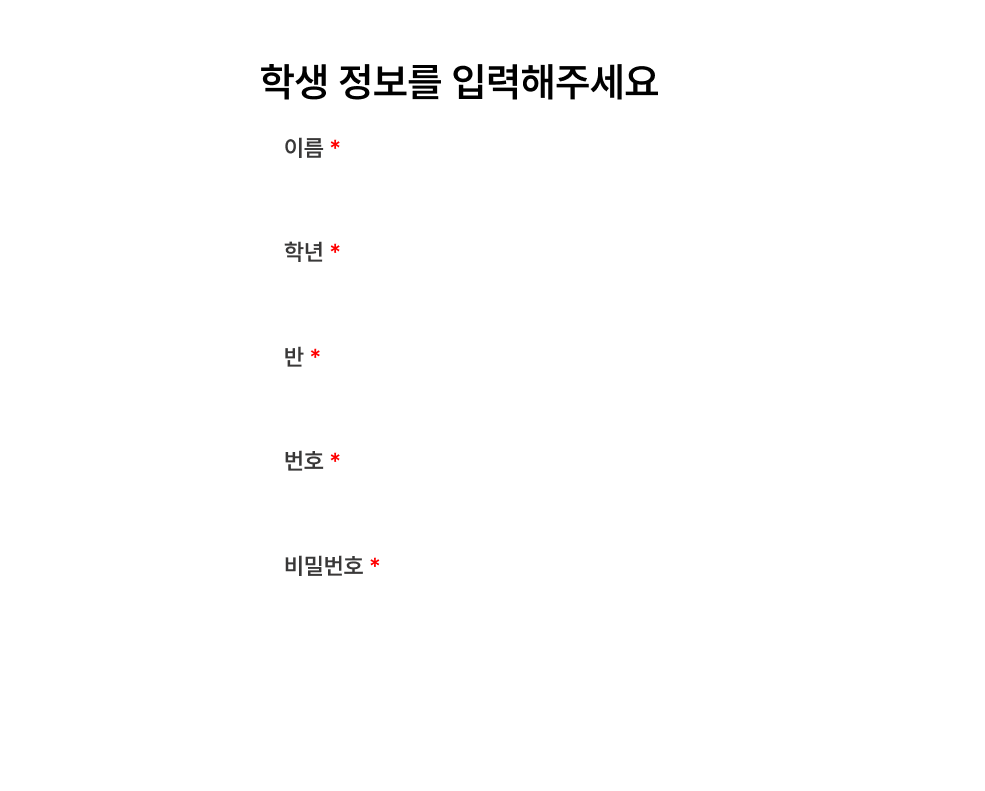
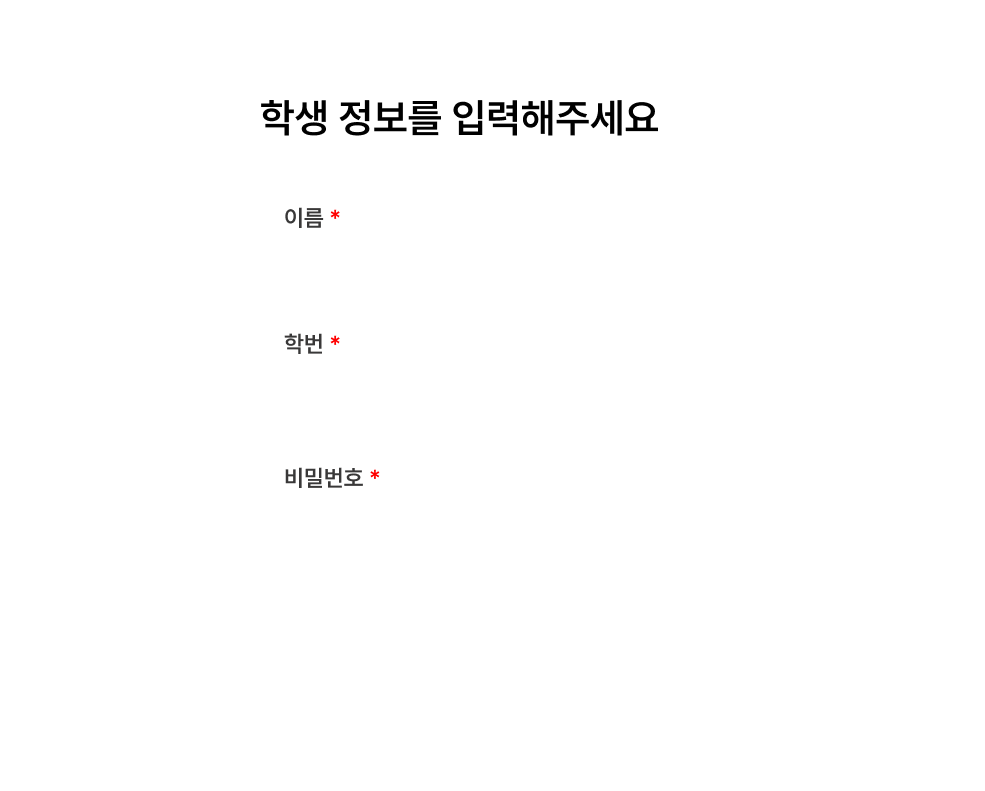
학번입력수정

diff --git a/flask_server/templates/information.html b/flask_server/templates/information.html
@@ -30,7 +30,7 @@
 
     .confirm {
       position: absolute;
-      top: 500px;
+      top: 470px;
       left: 170px;
       width: 397px;
       height: 60px;
@@ -70,34 +70,13 @@
 
     <form action="/information" method="post">
       <!-- 이름 입력 -->
-      <input type="text" name="name" class="icon-input" placeholder="이름" style="top: 130px; left: 220px;" required />
+      <input type="text" name="name" class="icon-input" placeholder="이름을 입력해주세요" style="top: 180px; left: 220px;" required />
 
-      <!-- 학년 선택 -->
-      <select name="grade" class="icon-input" style="top: 205px; left: 220px;" required>
-        <option disabled selected>학년</option>
-        <option value="1">1학년</option>
-        <option value="2">2학년</option>
-        <option value="3">3학년</option>
-      </select>
-
-      <!-- 반 선택 -->
-      <select name="ban" class="icon-input" style="top: 280px; left: 220px;" required>
-        <option disabled selected>반</option>
-        {% for class_num in range(1, 7) %}
-        <option value="{{ class_num }}">{{ class_num }}반</option>
-        {% endfor %}
-      </select>
-
-      <!-- 번호 선택 -->
-      <select name="number" class="icon-input" style="top: 360px; left: 220px;" required>
-        <option disabled selected>번호</option>
-        {% for num in range(1, 19) %}
-        <option value="{{ num }}">{{ num }}번</option>
-        {% endfor %}
-      </select>
+      <!-- 학번 입력 -->
+      <input type="text" name="studentnumber" class="icon-input" placeholder="학번을 입력해주세요" style="top: 270px; left: 220px;" required />
 
       <!-- 비밀번호 입력 -->
-      <input type="text" name="password" class="icon-input" placeholder="비밀번호를 입력해주세요" style="top: 435px; left: 220px;" required />
+      <input type="text" name="password" class="icon-input" placeholder="비밀번호를 입력해주세요" style="top: 370px; left: 220px;" required />
 
       <!-- 제출 버튼 -->
       <button type="submit" style="all: unset; border: none; padding: 0; background: none;">

diff --git a/flask_server/app.py b/flask_server/app.py
@@ -4,9 +4,8 @@ from datetime import datetime
 
 app = Flask(__name__)
 
-# mongo_uri = "mongodb+srv://MediBuddyUser:MediBuddy2025@medibuddy.346h16q.mongodb.net/?retryWrites=true&w=majority&appName=MediBuddy"
+mongo_uri = "mongodb+srv://MediBuddyUser:MediBuddy2025@medibuddy.346h16q.mongodb.net/?retryWrites=true&w=majority&appName=MediBuddy"
 
-mongo_uri = "mongodb+srv://MediBuddyUser:MediBuddy2025@medibuddy.co5u3aq.mongodb.net/?retryWrites=true&w=majority&appName=medibuddy"
 
 client = MongoClient(mongo_uri)
 
@@ -160,7 +159,7 @@ def list_records():
         if 'date' in record and isinstance(record['date'], datetime):
             record['date'] = record['date'].strftime("%Y-%m-%d")
     
-    return render_template('information.html', reservations=records)
+    return render_template('list.html', reservations=records)
 
 
 
